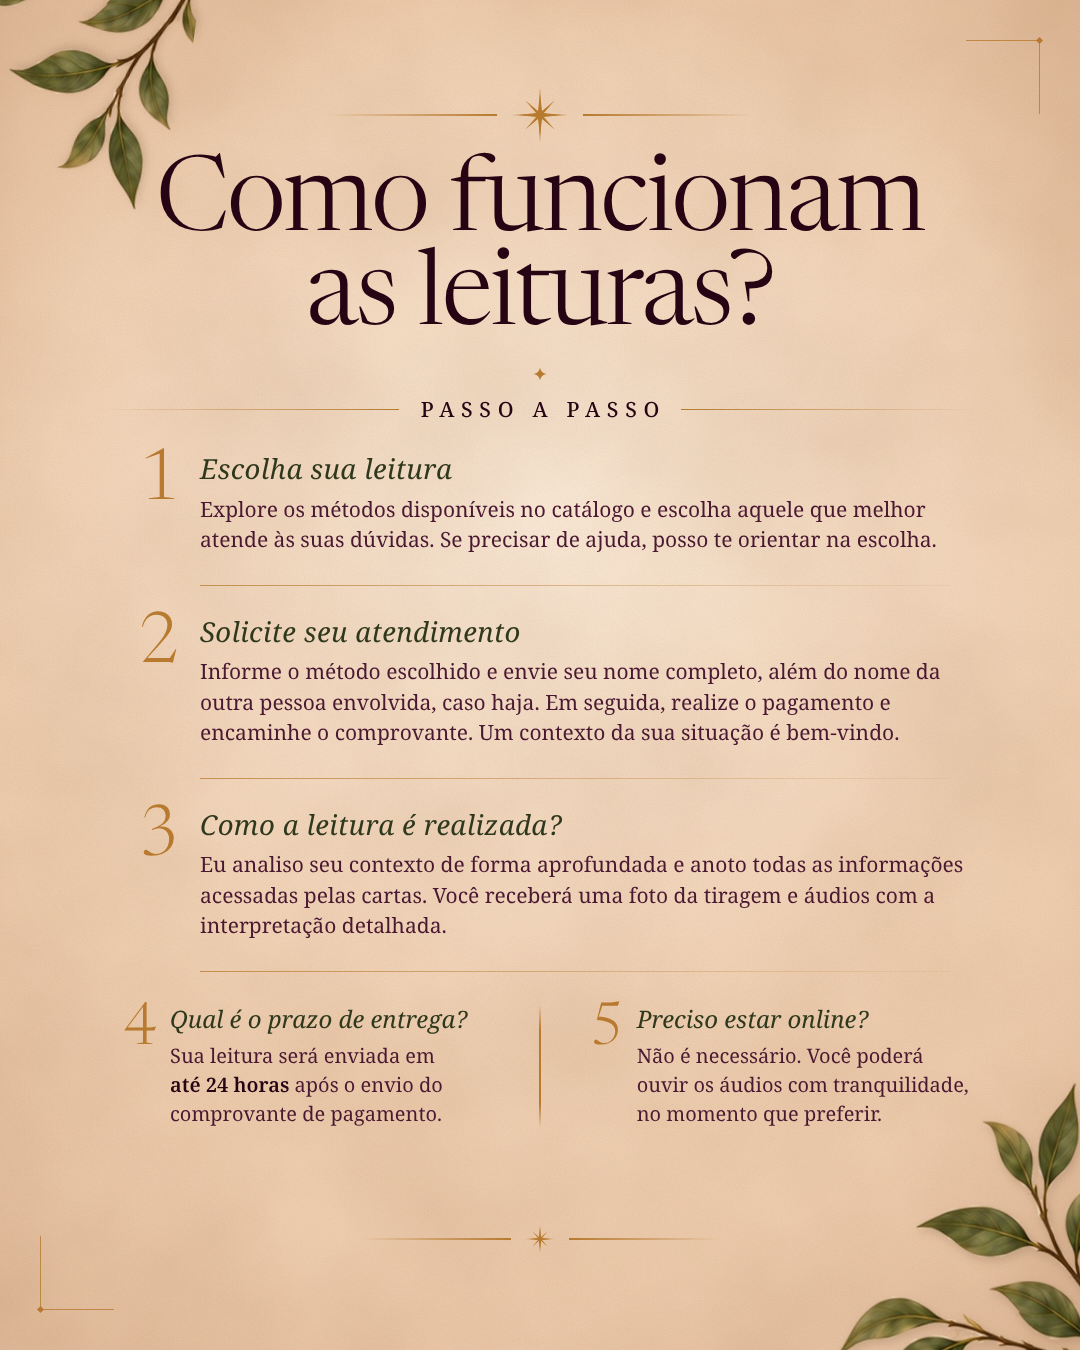
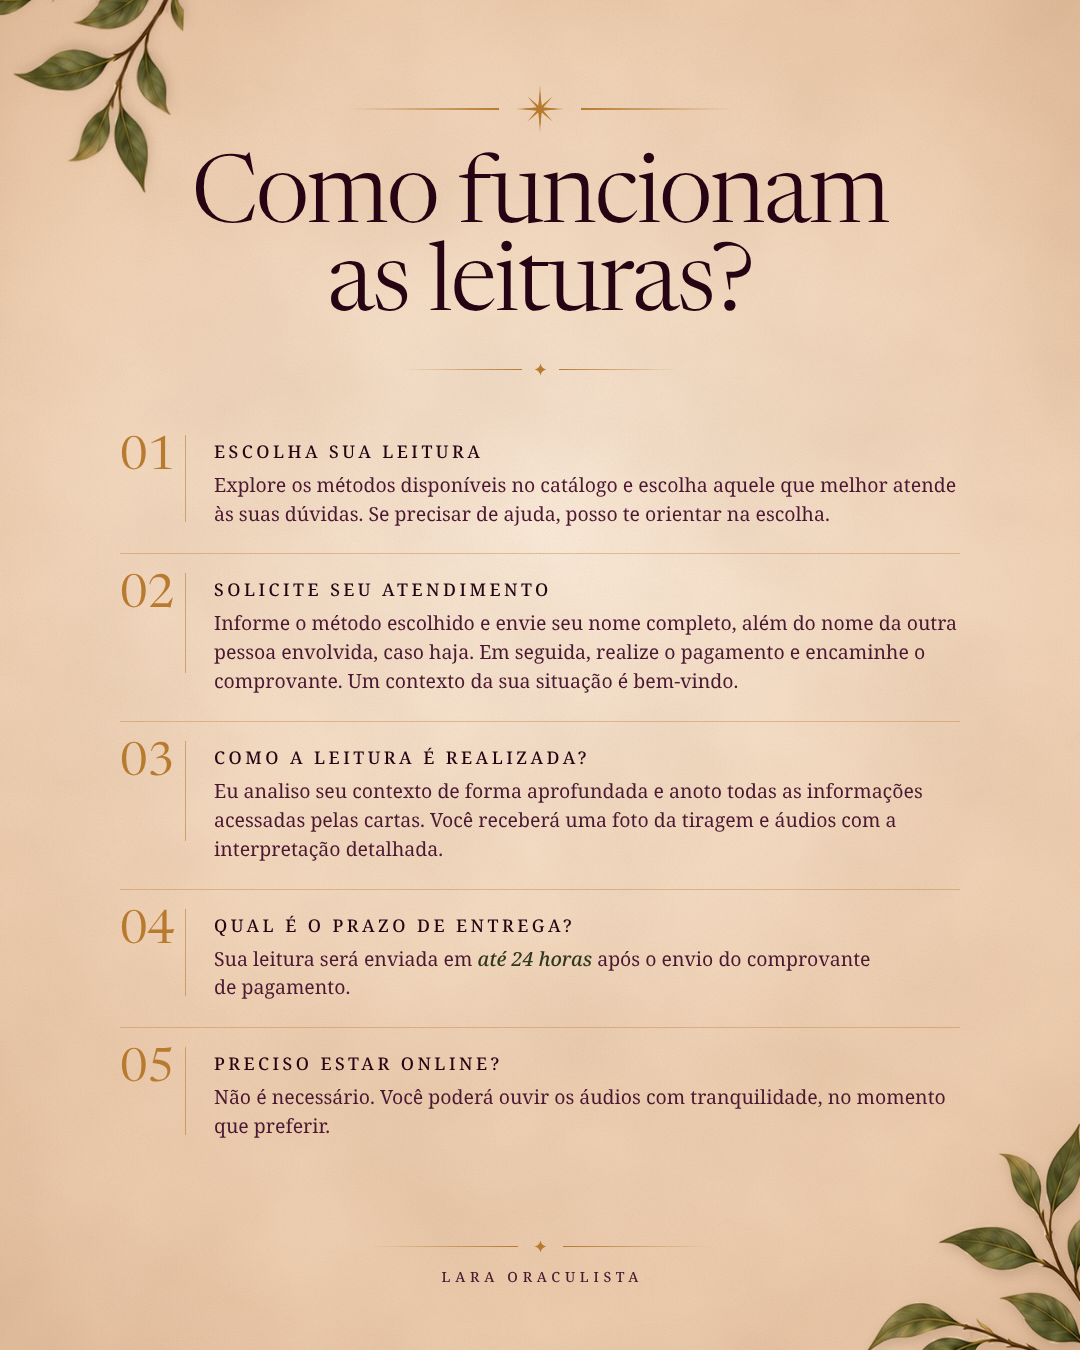
Arte 'Como funcionam as leituras?' v3: layout editorial mais profissional
Claude-Session: https://claude.ai/code/session_01GV2KUAp8ypSSPxbjxsJTeK

diff --git a/artes/como-funcionam-as-leituras/arte.html b/artes/como-funcionam-as-leituras/arte.html
@@ -2,7 +2,7 @@
 <html lang="pt-BR">
 <head>
 <meta charset="utf-8">
-<title>Como funcionam as leituras? — Lara Oraculista (v2)</title>
+<title>Como funcionam as leituras? — Lara Oraculista (v3)</title>
 <link rel="stylesheet" href="fonts2/fonts.css">
 <style>
   :root{
@@ -17,67 +17,53 @@
     position:relative;width:1080px;height:1350px;overflow:hidden;
     font-family:'Noto Serif',serif;color:var(--ameixa-texto);
     background:
-      radial-gradient(ellipse 70% 50% at 50% 38%, rgba(251,236,218,.95) 0%, rgba(247,226,203,.55) 45%, rgba(247,226,203,0) 78%),
-      radial-gradient(ellipse 120% 100% at 50% 50%, #F4D9BF 0%, #EECBAA 68%, #E0B58F 100%);
+      radial-gradient(ellipse 72% 52% at 50% 40%, rgba(251,237,220,.95) 0%, rgba(247,227,205,.5) 50%, rgba(247,227,205,0) 80%),
+      radial-gradient(ellipse 120% 100% at 50% 50%, #F4DAC1 0%, #EECCAC 68%, #E2B892 100%);
   }
   .textura{position:absolute;inset:0;pointer-events:none;mix-blend-mode:multiply}
-  .textura.fina{opacity:.15}
-  .textura.nuvem{opacity:.24}
+  .textura.fina{opacity:.13}
+  .textura.nuvem{opacity:.2}
   .vinheta{position:absolute;inset:0;pointer-events:none;
-    background:radial-gradient(ellipse 88% 82% at 50% 48%, rgba(0,0,0,0) 58%, rgba(120,62,30,.18) 100%)}
+    background:radial-gradient(ellipse 90% 84% at 50% 48%, rgba(0,0,0,0) 60%, rgba(120,62,30,.16) 100%)}
 
-  /* cantoneiras finas nos cantos sem folhagem */
-  .canto{position:absolute;width:74px;height:74px;border-color:rgba(183,122,46,.8);border-style:solid;border-width:0}
-  .canto.td{top:40px;right:40px;border-top-width:1.3px;border-right-width:1.3px}
-  .canto.be{bottom:40px;left:40px;border-bottom-width:1.3px;border-left-width:1.3px}
-  .canto::after{content:"";position:absolute;width:5px;height:5px;background:var(--ambar);transform:rotate(45deg)}
-  .canto.td::after{top:-3px;right:-3px}
-  .canto.be::after{bottom:-3px;left:-3px}
+  .folha{position:absolute;pointer-events:none;filter:drop-shadow(2px 5px 6px rgba(70,40,10,.16))}
+  .folha.sup{width:240px;left:-58px;top:-66px;transform:rotate(180deg) scaleX(-1) rotate(-2deg)}
+  .folha.inf{width:250px;right:-34px;bottom:-40px}
 
-  .folha{position:absolute;pointer-events:none;filter:drop-shadow(2px 4px 5px rgba(70,40,10,.18))}
-  .folha.sup{width:255px;left:-66px;top:-74px;transform:rotate(180deg) scaleX(-1) rotate(-8deg)}
-  .folha.inf{width:290px;right:-40px;bottom:-46px;transform:rotate(-2deg)}
+  .conteudo{position:absolute;left:120px;right:120px;top:84px}
 
-  .conteudo{position:absolute;inset:0;padding:86px 100px 0}
-
-  /* linhas e ornamentos */
-  .orn{display:flex;align-items:center;justify-content:center;gap:14px}
-  .orn i{display:block;height:1.3px}
+  /* ornamentos */
+  .orn{display:flex;align-items:center;justify-content:center;gap:16px}
+  .orn i{display:block;height:1.2px;width:150px}
   .orn i:first-child{background:linear-gradient(90deg,rgba(183,122,46,0),var(--ambar))}
   .orn i:last-child{background:linear-gradient(90deg,var(--ambar),rgba(183,122,46,0))}
-  .orn.topo i{width:170px}
 
   h1{font-family:'Newsreader',serif;font-variation-settings:'opsz' 72;font-weight:340;
-     color:var(--ameixa);text-align:center;letter-spacing:-.022em;line-height:.9;
-     font-size:104px;margin-top:16px}
+     color:var(--ameixa);text-align:center;letter-spacing:-.02em;line-height:.94;
+     font-size:94px;margin-top:22px}
   h1 span{display:block}
 
-  .rotulo{display:flex;align-items:center;gap:22px;margin-top:30px}
-  .rotulo i{flex:1;height:1.3px}
-  .rotulo i:first-child{background:linear-gradient(90deg,rgba(183,122,46,0),var(--ambar))}
-  .rotulo i:last-child{background:linear-gradient(90deg,var(--ambar),rgba(183,122,46,0))}
-  .rotulo b{font-weight:500;font-size:21px;letter-spacing:.32em;color:var(--ameixa);margin-right:-.32em}
-  .losango{display:flex;justify-content:center;margin-top:20px;height:14px}
+  .divisor{display:flex;align-items:center;justify-content:center;gap:12px;margin-top:30px}
+  .divisor i{display:block;height:1.2px;width:120px}
+  .divisor i:first-child{background:linear-gradient(90deg,rgba(183,122,46,0),var(--ambar))}
+  .divisor i:last-child{background:linear-gradient(90deg,var(--ambar),rgba(183,122,46,0))}
 
-  .passo{display:grid;grid-template-columns:78px 1fr;column-gap:22px;padding:30px 0 30px}
-  .passo + .passo{border-top:0}
-  .sep{height:1.1px;margin:0 30px 0 100px;background:linear-gradient(90deg,rgba(183,122,46,.75),rgba(183,122,46,.08))}
-  .n{font-family:'Newsreader',serif;font-variation-settings:'opsz' 72;font-weight:300;font-size:70px;
-     line-height:.8;color:var(--ambar);text-align:right;letter-spacing:-.03em;padding-top:2px}
-  .passo h2{font-weight:400;font-style:italic;color:var(--oliva);font-size:27.5px;line-height:1.15;
-     letter-spacing:.015em;margin-bottom:9px}
-  .passo p{font-size:21px;line-height:1.45;color:var(--ameixa-texto);text-wrap:pretty}
-  .passo p strong{white-space:nowrap;font-weight:600;color:var(--ameixa)}
+  /* passos */
+  .passos{margin-top:40px}
+  .passo{display:grid;grid-template-columns:66px 1fr;column-gap:28px;padding:25px 0}
+  .passo + .passo{border-top:1px solid rgba(183,122,46,.38)}
+  .n{font-family:'Newsreader',serif;font-variation-settings:'opsz' 72;font-weight:380;
+     font-size:46px;line-height:1;color:var(--ambar);letter-spacing:-.01em;
+     font-feature-settings:'lnum' 1,'tnum' 1;margin-top:-6px;
+     border-right:1px solid rgba(183,122,46,.55);height:100%;max-height:100px}
+  .passo h2{font-weight:500;font-size:17.5px;line-height:1.2;letter-spacing:.2em;
+     text-transform:uppercase;color:var(--ameixa);margin-bottom:9px}
+  .passo p{font-size:19.5px;line-height:1.48;color:var(--ameixa-texto);text-wrap:pretty}
+  .passo p em{font-style:italic;font-weight:500;color:var(--oliva);white-space:nowrap}
 
-  .duplo{display:grid;grid-template-columns:1fr 1.3px 1fr;column-gap:26px;padding-top:33px}
-  .duplo .passo{padding:0;grid-template-columns:56px 1fr;column-gap:14px}
-  .duplo .vline{background:linear-gradient(180deg,rgba(183,122,46,0),var(--ambar) 20%,var(--ambar) 80%,rgba(183,122,46,0))}
-  .duplo .n{font-size:58px}
-  .duplo h2{font-size:24px;letter-spacing:0}
-  .duplo .passo p{font-size:20px}
-
-  .fecho{position:absolute;left:0;right:0;bottom:96px}
-  .fecho i{width:150px}
+  .rodape{position:absolute;left:0;right:0;bottom:64px;text-align:center}
+  .rodape b{display:block;margin-top:14px;font-weight:500;font-size:14px;letter-spacing:.34em;
+     margin-right:-.34em;color:var(--ameixa-texto)}
 </style>
 </head>
 <body>
@@ -104,55 +90,45 @@
     </defs>
   </svg>
 
-  <div class="canto td"></div>
-  <div class="canto be"></div>
   <img class="folha sup" src="assets/folhagem.png" alt="">
   <img class="folha inf" src="assets/folhagem.png" alt="">
 
   <div class="conteudo">
-    <div class="orn topo"><i></i><svg width="58" height="58" viewBox="-31 -31 62 62"><use href="#estrela8"/></svg><i></i></div>
-
+    <div class="orn"><i></i><svg width="50" height="50" viewBox="-31 -31 62 62"><use href="#estrela8"/></svg><i></i></div>
     <h1><span>Como funcionam</span><span>as leituras?</span></h1>
+    <div class="divisor"><i></i><svg width="13" height="13" viewBox="-11 -11 22 22"><use href="#losango"/></svg><i></i></div>
 
-    <div class="losango"><svg width="14" height="14" viewBox="-11 -11 22 22"><use href="#losango"/></svg></div>
-    <div class="rotulo" style="margin-top:14px"><i></i><b>PASSO A PASSO</b><i></i></div>
-
-    <div class="passo">
-      <div class="n">1</div>
-      <div>
-        <h2>Escolha sua leitura</h2>
-        <p>Explore os métodos disponíveis no catálogo e escolha aquele que melhor atende às suas dúvidas. Se precisar de ajuda, posso te orientar na escolha.</p>
-      </div>
-    </div>
-    <div class="sep"></div>
-    <div class="passo">
-      <div class="n">2</div>
-      <div>
-        <h2>Solicite seu atendimento</h2>
-        <p>Informe o método escolhido e envie seu nome completo, além do nome da outra pessoa envolvida, caso haja. Em seguida, realize o pagamento e encaminhe o comprovante. Um contexto da sua situação é bem-vindo.</p>
-      </div>
-    </div>
-    <div class="sep"></div>
-    <div class="passo">
-      <div class="n">3</div>
-      <div>
-        <h2>Como a leitura é realizada?</h2>
-        <p>Eu analiso seu contexto de forma aprofundada e anoto todas as informações acessadas pelas cartas. Você receberá uma foto da tiragem e áudios com a interpretação detalhada.</p>
-      </div>
-    </div>
-    <div class="sep"></div>
-
-    <div class="duplo">
+    <div class="passos">
       <div class="passo">
-        <div class="n">4</div>
+        <div class="n">01</div>
         <div>
-          <h2>Qual é o prazo de entrega?</h2>
-          <p>Sua leitura será enviada em <strong>até 24 horas</strong> após o envio do comprovante de pagamento.</p>
+          <h2>Escolha sua leitura</h2>
+          <p>Explore os métodos disponíveis no catálogo e escolha aquele que melhor atende às suas dúvidas. Se precisar de ajuda, posso te orientar na escolha.</p>
         </div>
       </div>
-      <div class="vline"></div>
       <div class="passo">
-        <div class="n">5</div>
+        <div class="n">02</div>
+        <div>
+          <h2>Solicite seu atendimento</h2>
+          <p>Informe o método escolhido e envie seu nome completo, além do nome da outra pessoa envolvida, caso haja. Em seguida, realize o pagamento e encaminhe o comprovante. Um contexto da sua situação é bem-vindo.</p>
+        </div>
+      </div>
+      <div class="passo">
+        <div class="n">03</div>
+        <div>
+          <h2>Como a leitura é realizada?</h2>
+          <p>Eu analiso seu contexto de forma aprofundada e anoto todas as informações acessadas pelas cartas. Você receberá uma foto da tiragem e áudios com a interpretação detalhada.</p>
+        </div>
+      </div>
+      <div class="passo">
+        <div class="n">04</div>
+        <div>
+          <h2>Qual é o prazo de entrega?</h2>
+          <p>Sua leitura será enviada em <em>até 24 horas</em> após o envio do comprovante de pagamento.</p>
+        </div>
+      </div>
+      <div class="passo">
+        <div class="n">05</div>
         <div>
           <h2>Preciso estar online?</h2>
           <p>Não é necessário. Você poderá ouvir os áudios com tranquilidade, no momento que preferir.</p>
@@ -161,7 +137,10 @@
     </div>
   </div>
 
-  <div class="orn fecho"><i></i><svg width="30" height="30" viewBox="-31 -31 62 62"><use href="#estrela8"/></svg><i></i></div>
+  <div class="rodape">
+    <div class="orn"><i></i><svg width="13" height="13" viewBox="-11 -11 22 22"><use href="#losango"/></svg><i></i></div>
+    <b>LARA ORACULISTA</b>
+  </div>
 </div>
 </body>
 </html>

diff --git a/artes/como-funcionam-as-leituras/arte-v2.html b/artes/como-funcionam-as-leituras/arte-v2.html
@@ -1,0 +1,167 @@
+<!DOCTYPE html>
+<html lang="pt-BR">
+<head>
+<meta charset="utf-8">
+<title>Como funcionam as leituras? — Lara Oraculista (v2)</title>
+<link rel="stylesheet" href="fonts2/fonts.css">
+<style>
+  :root{
+    --ameixa:#260414;
+    --ameixa-texto:#4B1831;
+    --oliva:#2F381C;
+    --ambar:#B77A2E;
+  }
+  *{margin:0;padding:0;box-sizing:border-box}
+  html,body{width:1080px;height:1350px;background:#e9c7a8}
+  .arte{
+    position:relative;width:1080px;height:1350px;overflow:hidden;
+    font-family:'Noto Serif',serif;color:var(--ameixa-texto);
+    background:
+      radial-gradient(ellipse 70% 50% at 50% 38%, rgba(251,236,218,.95) 0%, rgba(247,226,203,.55) 45%, rgba(247,226,203,0) 78%),
+      radial-gradient(ellipse 120% 100% at 50% 50%, #F4D9BF 0%, #EECBAA 68%, #E0B58F 100%);
+  }
+  .textura{position:absolute;inset:0;pointer-events:none;mix-blend-mode:multiply}
+  .textura.fina{opacity:.15}
+  .textura.nuvem{opacity:.24}
+  .vinheta{position:absolute;inset:0;pointer-events:none;
+    background:radial-gradient(ellipse 88% 82% at 50% 48%, rgba(0,0,0,0) 58%, rgba(120,62,30,.18) 100%)}
+
+  /* cantoneiras finas nos cantos sem folhagem */
+  .canto{position:absolute;width:74px;height:74px;border-color:rgba(183,122,46,.8);border-style:solid;border-width:0}
+  .canto.td{top:40px;right:40px;border-top-width:1.3px;border-right-width:1.3px}
+  .canto.be{bottom:40px;left:40px;border-bottom-width:1.3px;border-left-width:1.3px}
+  .canto::after{content:"";position:absolute;width:5px;height:5px;background:var(--ambar);transform:rotate(45deg)}
+  .canto.td::after{top:-3px;right:-3px}
+  .canto.be::after{bottom:-3px;left:-3px}
+
+  .folha{position:absolute;pointer-events:none;filter:drop-shadow(2px 4px 5px rgba(70,40,10,.18))}
+  .folha.sup{width:255px;left:-66px;top:-74px;transform:rotate(180deg) scaleX(-1) rotate(-8deg)}
+  .folha.inf{width:290px;right:-40px;bottom:-46px;transform:rotate(-2deg)}
+
+  .conteudo{position:absolute;inset:0;padding:86px 100px 0}
+
+  /* linhas e ornamentos */
+  .orn{display:flex;align-items:center;justify-content:center;gap:14px}
+  .orn i{display:block;height:1.3px}
+  .orn i:first-child{background:linear-gradient(90deg,rgba(183,122,46,0),var(--ambar))}
+  .orn i:last-child{background:linear-gradient(90deg,var(--ambar),rgba(183,122,46,0))}
+  .orn.topo i{width:170px}
+
+  h1{font-family:'Newsreader',serif;font-variation-settings:'opsz' 72;font-weight:340;
+     color:var(--ameixa);text-align:center;letter-spacing:-.022em;line-height:.9;
+     font-size:104px;margin-top:16px}
+  h1 span{display:block}
+
+  .rotulo{display:flex;align-items:center;gap:22px;margin-top:30px}
+  .rotulo i{flex:1;height:1.3px}
+  .rotulo i:first-child{background:linear-gradient(90deg,rgba(183,122,46,0),var(--ambar))}
+  .rotulo i:last-child{background:linear-gradient(90deg,var(--ambar),rgba(183,122,46,0))}
+  .rotulo b{font-weight:500;font-size:21px;letter-spacing:.32em;color:var(--ameixa);margin-right:-.32em}
+  .losango{display:flex;justify-content:center;margin-top:20px;height:14px}
+
+  .passo{display:grid;grid-template-columns:78px 1fr;column-gap:22px;padding:30px 0 30px}
+  .passo + .passo{border-top:0}
+  .sep{height:1.1px;margin:0 30px 0 100px;background:linear-gradient(90deg,rgba(183,122,46,.75),rgba(183,122,46,.08))}
+  .n{font-family:'Newsreader',serif;font-variation-settings:'opsz' 72;font-weight:300;font-size:70px;
+     line-height:.8;color:var(--ambar);text-align:right;letter-spacing:-.03em;padding-top:2px}
+  .passo h2{font-weight:400;font-style:italic;color:var(--oliva);font-size:27.5px;line-height:1.15;
+     letter-spacing:.015em;margin-bottom:9px}
+  .passo p{font-size:21px;line-height:1.45;color:var(--ameixa-texto);text-wrap:pretty}
+  .passo p strong{white-space:nowrap;font-weight:600;color:var(--ameixa)}
+
+  .duplo{display:grid;grid-template-columns:1fr 1.3px 1fr;column-gap:26px;padding-top:33px}
+  .duplo .passo{padding:0;grid-template-columns:56px 1fr;column-gap:14px}
+  .duplo .vline{background:linear-gradient(180deg,rgba(183,122,46,0),var(--ambar) 20%,var(--ambar) 80%,rgba(183,122,46,0))}
+  .duplo .n{font-size:58px}
+  .duplo h2{font-size:24px;letter-spacing:0}
+  .duplo .passo p{font-size:20px}
+
+  .fecho{position:absolute;left:0;right:0;bottom:96px}
+  .fecho i{width:150px}
+</style>
+</head>
+<body>
+<div class="arte">
+  <svg class="textura nuvem" width="1080" height="1350">
+    <filter id="nuvem"><feTurbulence type="fractalNoise" baseFrequency=".006" numOctaves="4" seed="11"/>
+      <feColorMatrix values="0 0 0 0 .55  0 0 0 0 .38  0 0 0 0 .25  0 0 0 1.1 -.35"/></filter>
+    <rect width="100%" height="100%" filter="url(#nuvem)"/>
+  </svg>
+  <svg class="textura fina" width="1080" height="1350">
+    <filter id="grao"><feTurbulence type="fractalNoise" baseFrequency=".85" numOctaves="2" seed="3" stitchTiles="stitch"/>
+      <feColorMatrix values="0 0 0 0 .45  0 0 0 0 .3  0 0 0 0 .2  0 0 0 .9 0"/></filter>
+    <rect width="100%" height="100%" filter="url(#grao)"/>
+  </svg>
+  <div class="vinheta"></div>
+
+  <svg width="0" height="0" style="position:absolute">
+    <defs>
+      <g id="estrela8">
+        <path fill="#B77A2E" d="M0-22 L2.2-4.2 L15.6-15.6 L4.2-2.2 L22 0 L4.2 2.2 L15.6 15.6 L2.2 4.2 L0 22 L-2.2 4.2 L-15.6 15.6 L-4.2 2.2 L-22 0 L-4.2-2.2 L-15.6-15.6 L-2.2-4.2Z"/>
+        <path fill="#B77A2E" d="M0-30 L1.1-9 L0 0 L-1.1-9Z M0 30 L1.1 9 L0 0 L-1.1 9Z M-30 0 L-9 1.1 L0 0 L-9-1.1Z M30 0 L9 1.1 L0 0 L9-1.1Z"/>
+      </g>
+      <g id="losango"><path fill="#B77A2E" d="M0-10 Q1.6-1.6 10 0 Q1.6 1.6 0 10 Q-1.6 1.6 -10 0 Q-1.6-1.6 0-10Z"/></g>
+    </defs>
+  </svg>
+
+  <div class="canto td"></div>
+  <div class="canto be"></div>
+  <img class="folha sup" src="assets/folhagem.png" alt="">
+  <img class="folha inf" src="assets/folhagem.png" alt="">
+
+  <div class="conteudo">
+    <div class="orn topo"><i></i><svg width="58" height="58" viewBox="-31 -31 62 62"><use href="#estrela8"/></svg><i></i></div>
+
+    <h1><span>Como funcionam</span><span>as leituras?</span></h1>
+
+    <div class="losango"><svg width="14" height="14" viewBox="-11 -11 22 22"><use href="#losango"/></svg></div>
+    <div class="rotulo" style="margin-top:14px"><i></i><b>PASSO A PASSO</b><i></i></div>
+
+    <div class="passo">
+      <div class="n">1</div>
+      <div>
+        <h2>Escolha sua leitura</h2>
+        <p>Explore os métodos disponíveis no catálogo e escolha aquele que melhor atende às suas dúvidas. Se precisar de ajuda, posso te orientar na escolha.</p>
+      </div>
+    </div>
+    <div class="sep"></div>
+    <div class="passo">
+      <div class="n">2</div>
+      <div>
+        <h2>Solicite seu atendimento</h2>
+        <p>Informe o método escolhido e envie seu nome completo, além do nome da outra pessoa envolvida, caso haja. Em seguida, realize o pagamento e encaminhe o comprovante. Um contexto da sua situação é bem-vindo.</p>
+      </div>
+    </div>
+    <div class="sep"></div>
+    <div class="passo">
+      <div class="n">3</div>
+      <div>
+        <h2>Como a leitura é realizada?</h2>
+        <p>Eu analiso seu contexto de forma aprofundada e anoto todas as informações acessadas pelas cartas. Você receberá uma foto da tiragem e áudios com a interpretação detalhada.</p>
+      </div>
+    </div>
+    <div class="sep"></div>
+
+    <div class="duplo">
+      <div class="passo">
+        <div class="n">4</div>
+        <div>
+          <h2>Qual é o prazo de entrega?</h2>
+          <p>Sua leitura será enviada em <strong>até 24 horas</strong> após o envio do comprovante de pagamento.</p>
+        </div>
+      </div>
+      <div class="vline"></div>
+      <div class="passo">
+        <div class="n">5</div>
+        <div>
+          <h2>Preciso estar online?</h2>
+          <p>Não é necessário. Você poderá ouvir os áudios com tranquilidade, no momento que preferir.</p>
+        </div>
+      </div>
+    </div>
+  </div>
+
+  <div class="orn fecho"><i></i><svg width="30" height="30" viewBox="-31 -31 62 62"><use href="#estrela8"/></svg><i></i></div>
+</div>
+</body>
+</html>
